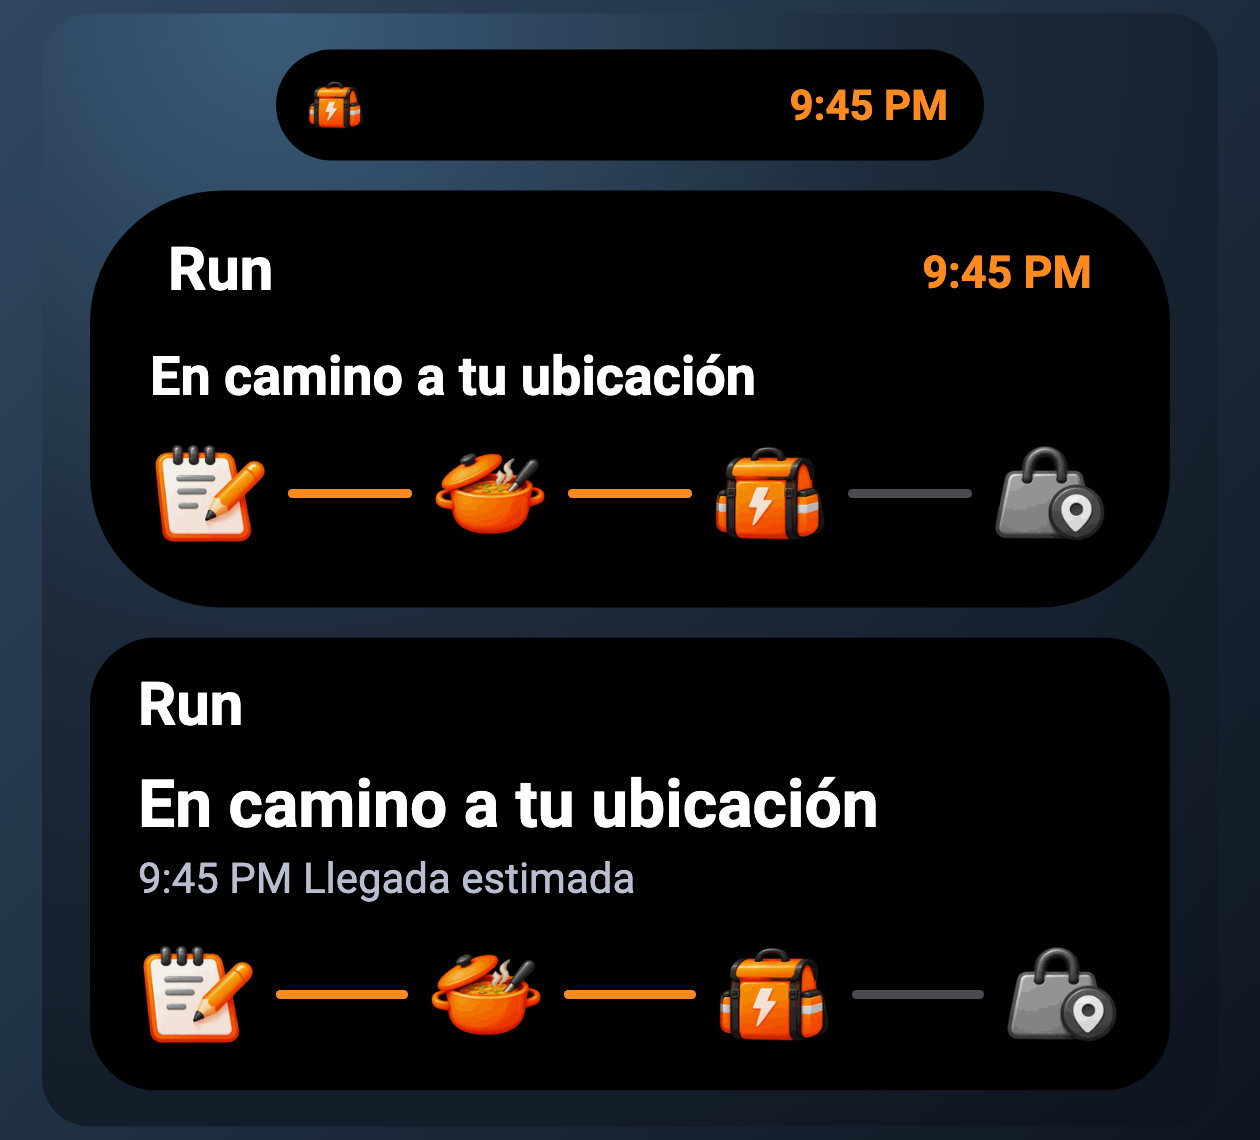
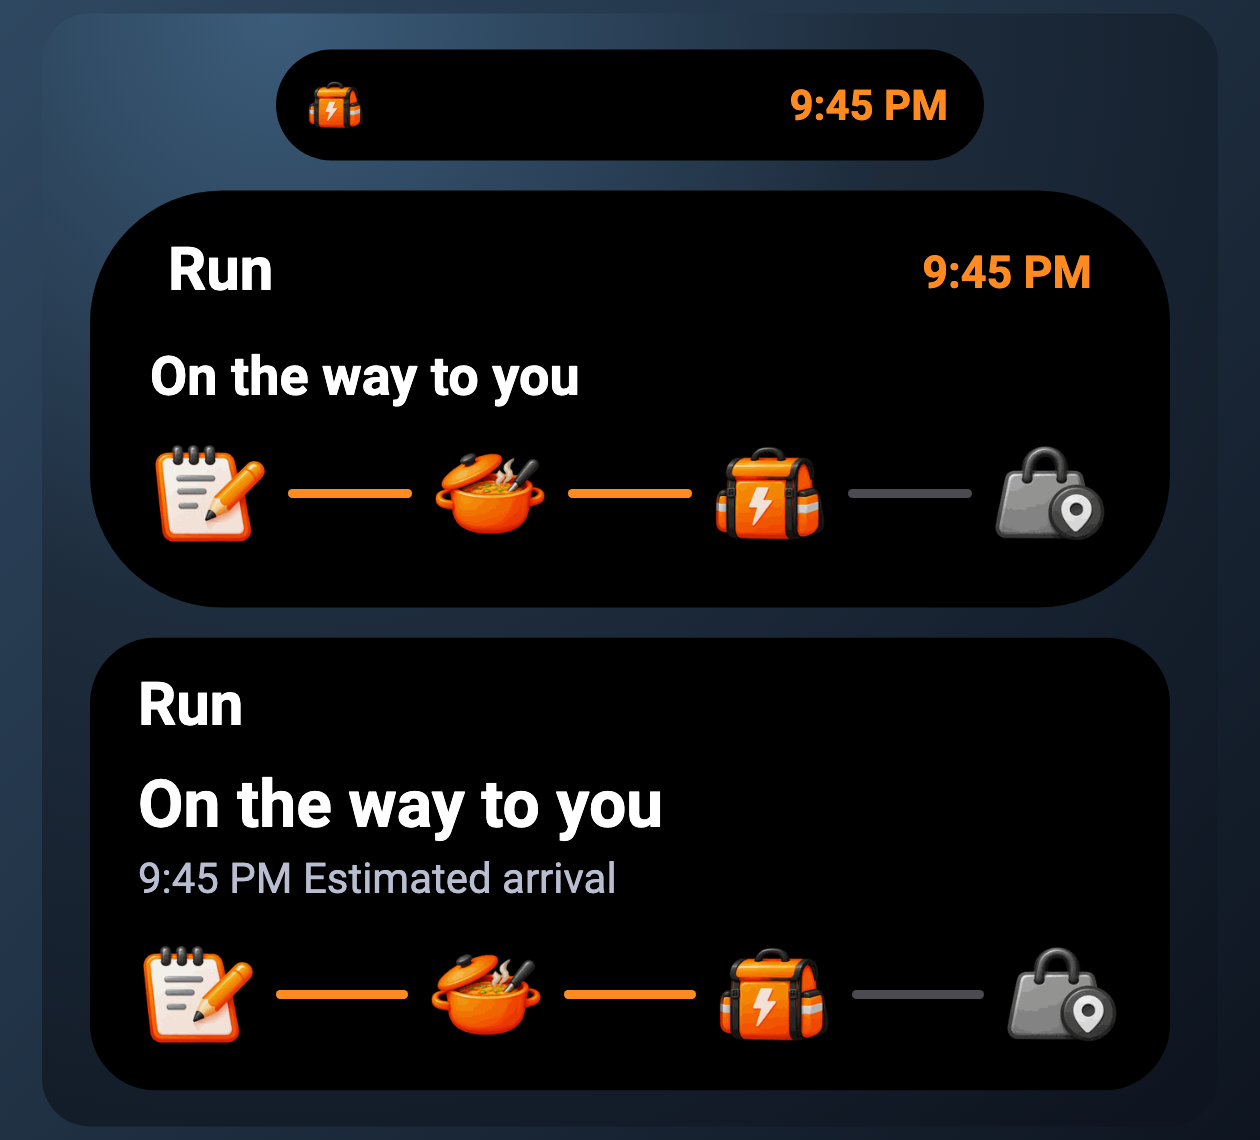
docs: la galería del README y el CHANGELOG usan los textos en inglés

Changed region(s): [[0.0929, 0.6754, 0.7119, 0.7982], [0.1238, 0.307, 0.619, 0.3684]]

diff --git a/CHANGELOG.md b/CHANGELOG.md
@@ -4,7 +4,7 @@
 * Cross-platform conformance: `doc/contract/conformance.json` holds 52 cases (`{field}` templates, conditions and the countdown) that Dart, Swift and Kotlin run with their real logic (`tool/conformidad.sh`). The rules are now written in the contract.
 * Differences the suite found are fixed: the preview wrote `5.0` where the device writes `5`; `eq` and the numeric operators treat a number and a numeric string the same on all three platforms; `truthy: false` inverts the condition; the text `"false"` is truthy; a boolean is not a number; and on iOS `{ x }` or `{}` no longer disappear from a template.
 * The messages the package shows developers are now in English: `LiveIsland.check()` warnings, errors thrown by the Dart API and the iOS and Android plugins, the labels of the preview, and the `dart run live_island_kit:setup` command and the files it generates. Runtime text meant for end users (for example the relative time "en 5 min") is unchanged.
-* The API documentation (every `///` comment, about 1,100 lines) is now in English, so pub.dev's API reference reads in English. The sample texts the presets show ("Tu conductor está en camino"…) are still Spanish.
+* The API documentation (every `///` comment, about 1,100 lines) is now in English, so pub.dev's API reference reads in English. The sample texts the presets show are in English too ("Your driver is on the way", "Pickup in 2 min"…); the README gallery images are regenerated with them.
 * The README is now in English (Spanish version: `README.es.md`), and so are the pub.dev description and screenshot captions.
 
 ## 0.2.0
